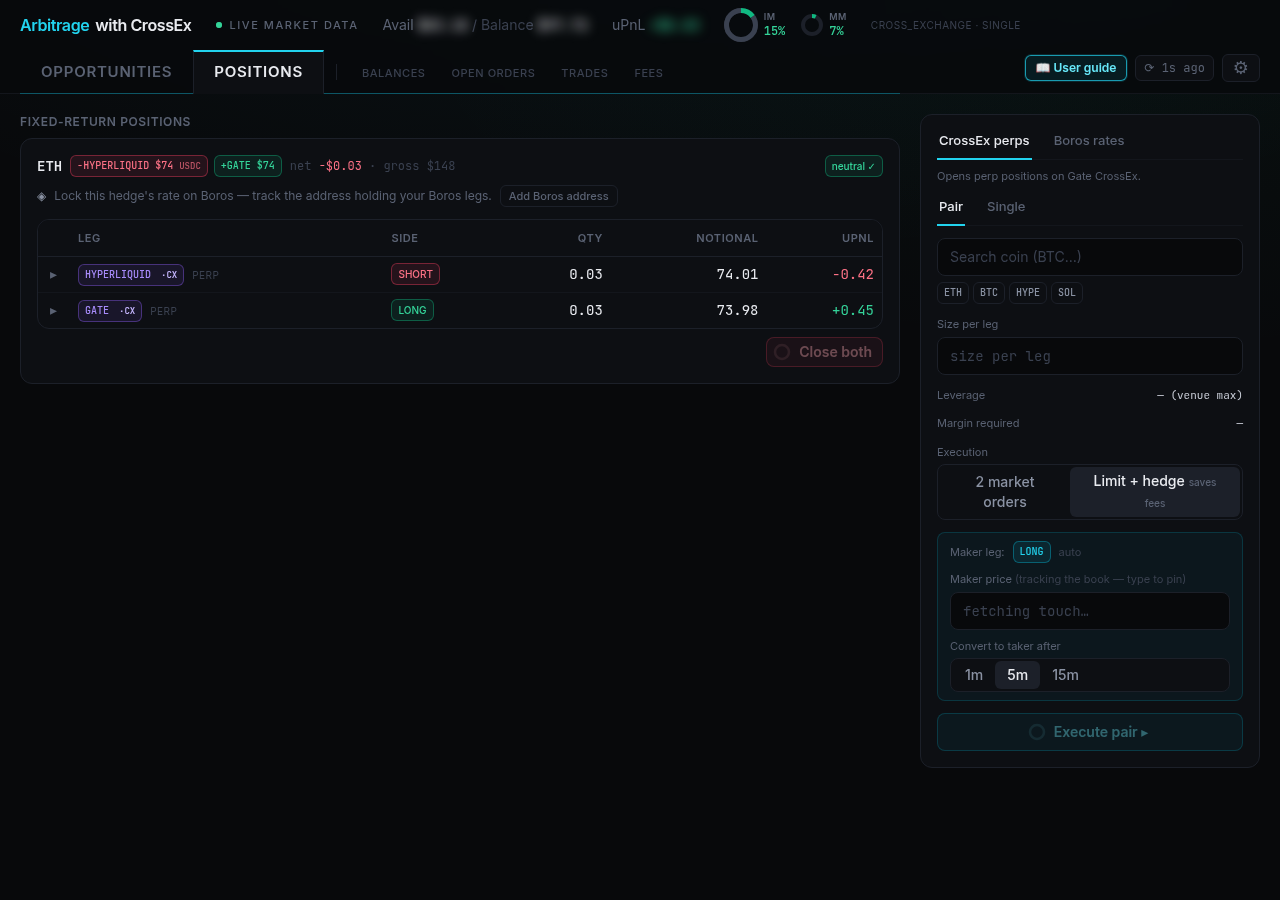
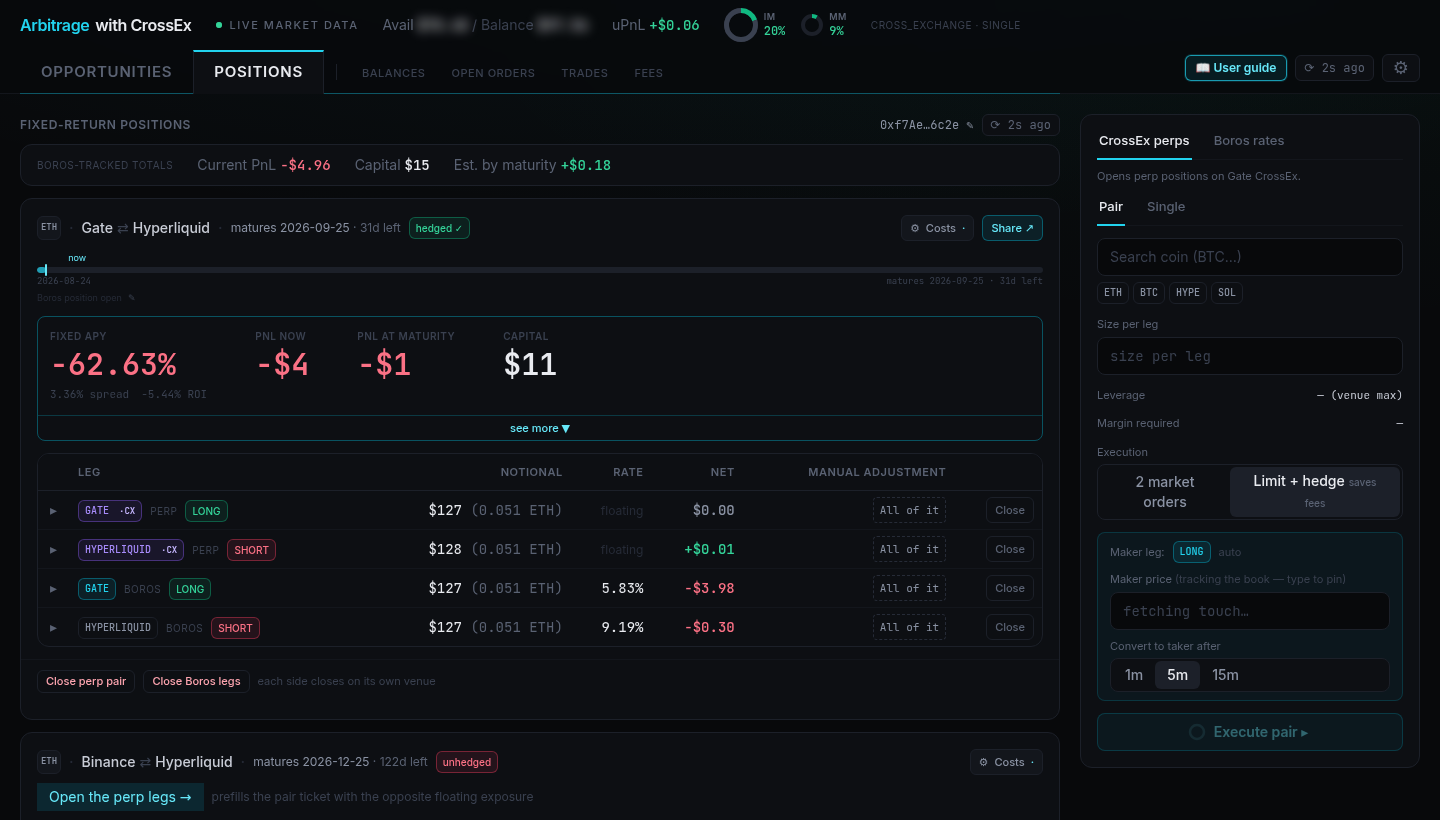
updated positions tracking (#287)
* renamed product

* renamed app

* finalized rename

* updated positions tracking

diff --git a/docs/boros-docs/arbitrage-with-crossex/monitoring-and-closing.md b/docs/boros-docs/arbitrage-with-crossex/monitoring-and-closing.md
@@ -4,23 +4,33 @@ import Hint from '@site/src/components/Hint';
 
 ## The Positions tab
 
-Once open, a 4-leg position needs little maintenance — the main decision is what to do with the perp legs at maturity. The **Positions** tab groups each hedge into its own box, showing the legs, their sizes and notionals, unrealised PnL, and whether the hedge is currently balanced.
+Once open, a 4-leg position needs little maintenance — the main decision is what to do at maturity. The **Positions** tab groups each strategy into its own box, with all four legs in one table.
 
 ![Positions tab](/boros-docs/imgs/arbitrage-with-crossex/positions-tab.png "Positions tab")
 
-A `neutral ✓` chip means the two legs offset. If you haven't set a tracked Boros address yet, the box prompts you to add one — without it the terminal sees only the perp half of the trade.
+At the top, **BOROS-TRACKED TOTALS** summarises every tracked position: **Current PnL**, **Capital**, and **Est. by maturity**.
 
-For how the returns are calculated and how to read the cost breakdown, see [Understanding Position PnL](./position-pnl).
+Each position box is headed by the coin, the venue pair (e.g. `Gate ⇄ Hyperliquid`), the maturity with days remaining, and a status chip — `hedged ✓` when all four legs are in place, or `unhedged` when they aren't. Below that sit the headline numbers:
 
-## Closing the 4-leg position
+- **FIXED APY** — the locked annualised return, with the underlying spread and ROI beneath it
+- **PNL NOW** — mark-to-market profit or loss today
+- **PNL AT MATURITY** — the projected result if held to maturity
+- **CAPITAL** — what the position consumes
 
-Close the Boros rate legs first, then the perps — the reverse of opening.
+The leg table lists all four legs — both `·CX` perp legs and both `BOROS` rate legs — with notional, rate (`floating` for perps, the locked rate for Boros legs), and net PnL.
 
-**Boros legs.** In the **Boros rates** ticket, switch the mode to **Close** (reduce-only), select the legs, and confirm. You can also close them from the Boros app directly.
+<Hint style="info">
+A position only shows a rate, capital, and ROI once every leg is in place. A partially built position reads **Incomplete position**, and an `unhedged` box offers **Open the perp legs →**, which prefills the pair ticket with the opposite floating exposure.
+</Hint>
 
-**Perp legs.** Once the rate legs are closed, a **Close both** button on the position box closes both perp legs at market. Click and hold it to confirm.
+## Closing a position
 
-![Close both perp legs](/boros-docs/imgs/arbitrage-with-crossex/close-both-perp-legs.png "Close both perp legs")
+Each side closes on its own venue, using the two buttons at the bottom of the position box:
+
+- **Close perp pair** — closes both CrossEx perp legs together.
+- **Close Boros legs** — closes both Boros rate legs.
+
+For finer control, the **MANUAL ADJUSTMENT** column on each leg row has **All of it** and **Close**, letting you close a single leg or part of one rather than the whole side.
 
 <Hint style="info">
 Because of the leverage on the perp legs, you may receive Initial Margin Ratio (IMR) alert emails from Gate. As the positions are delta-neutral, liquidation risk stays very low barring price dislocation across venues.
@@ -30,7 +40,7 @@ Because of the leverage on the perp legs, you may receive Initial Margin Ratio (
 
 If you can lock a decent spread on the same perp pair at the next maturity, rolling over is usually better than closing. The existing position escapes its perp closing fees and the new one escapes its perp opening fees — keep rolling and a position pays no perp fees at all, which is one of the largest boosts available to this strategy.
 
-To roll over: close only the Boros legs at maturity, open new Boros legs at the next maturity, and leave the perp legs untouched. Then set the old position's **Perp exit cost** to *Omit (rolling over)*, and on the new position untick the inherited executions under **Perp entry cost** — those legs already paid. See [Understanding Position PnL](./position-pnl) for both toggles.
+To roll over: close only the Boros legs at maturity, open new Boros legs at the next maturity, and leave the perp legs untouched. Then set the old position's **Perp exit cost** to *Omit (rolling over)*, and on the new position untick the inherited executions under **Perp entry cost**. Both live in the **Costs** dialog — see [Understanding Position PnL](./position-pnl).
 
 ## Using the order ticket directly
 

diff --git a/i18n/cn/docusaurus-plugin-content-docs-boros-docs/current/arbitrage-with-crossex/monitoring-and-closing.md b/i18n/cn/docusaurus-plugin-content-docs-boros-docs/current/arbitrage-with-crossex/monitoring-and-closing.md
@@ -9,23 +9,33 @@ import Hint from '@site/src/components/Hint';
 
 ## Positions 标签页
 
-四腿仓位开出后几乎无需维护——主要的决策是到期时如何处理永续腿。**Positions** 标签页将每组对冲归为一个独立方框，显示各条腿、规模与名义本金、未实现盈亏，以及该对冲当前是否平衡。
+四腿仓位开出后几乎无需维护——主要的决策是到期时如何处理。**Positions** 标签页将每个策略归为一个独立方框，并在同一张表格中列出全部四条腿。
 
 ![Positions tab](/boros-docs/imgs/arbitrage-with-crossex/positions-tab.png "Positions tab")
 
-`neutral ✓` 标识表示两条腿相互抵消。若你尚未设置追踪 Boros 地址，方框会提示你添加——没有该地址，终端只能看到交易中永续腿的那一半。
+顶部的 **BOROS-TRACKED TOTALS** 汇总所有被追踪的仓位：**Current PnL（当前盈亏）**、**Capital（资本）** 和 **Est. by maturity（到期预估）**。
 
-关于回报的计算方式以及成本拆解的解读，请参阅[理解仓位盈亏](./position-pnl)。
+每个仓位方框的标题显示币种、交易所组合（例如 `Gate ⇄ Hyperliquid`）、到期日及剩余天数，以及状态标识——四条腿齐备时显示 `hedged ✓`，否则显示 `unhedged`。其下是主要数字：
 
-## 平掉四腿仓位
+- **FIXED APY** — 锁定的年化回报，下方附有对应利差与 ROI
+- **PNL NOW** — 当前的浮动盈亏
+- **PNL AT MATURITY** — 持有至到期的预计结果
+- **CAPITAL** — 该仓位占用的资本
 
-先平掉 Boros 利率腿，再平永续腿——顺序与开仓相反。
+腿表格列出全部四条腿——两条 `·CX` 永续腿和两条 `BOROS` 利率腿——并显示名义本金、利率（永续腿为 `floating`，Boros 腿为锁定利率）以及净盈亏。
 
-**Boros 腿。** 在 **Boros rates** 面板中，将模式切换到 **Close**（只减仓），选择相应的腿并确认。你也可以直接在 Boros 应用中平仓。
+<Hint style="info">
+只有当全部四条腿齐备时，仓位才会显示利率、资本和 ROI。尚未建全的仓位会显示 **Incomplete position**；`unhedged` 方框则提供 **Open the perp legs →** 按钮，可用相反的浮动敞口预填对交易面板。
+</Hint>
 
-**永续腿。** 利率腿平掉后，仓位方框上的 **Close both** 按钮可将两条永续腿以市价单平掉。点击并按住该按钮以确认。
+## 平掉仓位
 
-![Close both perp legs](/boros-docs/imgs/arbitrage-with-crossex/close-both-perp-legs.png "Close both perp legs")
+每一侧都在各自的交易所平仓，使用仓位方框底部的两个按钮：
+
+- **Close perp pair** — 同时平掉两条 CrossEx 永续腿。
+- **Close Boros legs** — 平掉两条 Boros 利率腿。
+
+若需更精细的控制，每一行腿的 **MANUAL ADJUSTMENT** 列提供 **All of it** 和 **Close**，可只平掉单条腿或其中一部分，而非整侧。
 
 <Hint style="info">
 由于永续腿使用了杠杆，你可能会收到 Gate 关于初始保证金率（IMR）的提醒邮件。由于仓位是市场中性的，除非出现跨交易所的价格错位，否则清算风险极低。
@@ -35,7 +45,7 @@ import Hint from '@site/src/components/Hint';
 
 如果你能在同一永续交易对的下一到期日锁定不错的利差，展期通常优于平仓。原有仓位省去了永续腿的平仓手续费，新仓位也省去了开仓手续费——若能持续展期，仓位将完全不必支付永续腿手续费，这是该策略可获得的最大提升之一。
 
-展期做法：到期时只平掉 Boros 腿，在下一到期日开出新的 Boros 腿，永续腿保持不动。然后将原仓位的 **Perp exit cost** 设为 *Omit (rolling over)*，并在新仓位中取消勾选 **Perp entry cost** 下继承而来的执行记录——那些腿已经支付过手续费。两个开关的说明详见[理解仓位盈亏](./position-pnl)。
+展期做法：到期时只平掉 Boros 腿，在下一到期日开出新的 Boros 腿，永续腿保持不动。然后将原仓位的 **Perp exit cost** 设为 *Omit (rolling over)*，并在新仓位中取消勾选 **Perp entry cost** 下继承而来的执行记录。两者都位于 **Costs** 弹窗中——详见[理解仓位盈亏](./position-pnl)。
 
 ## 直接使用订单面板
 

diff --git a/docs/boros-docs/arbitrage-with-crossex/position-pnl.md b/docs/boros-docs/arbitrage-with-crossex/position-pnl.md
@@ -4,9 +4,21 @@ import Hint from '@site/src/components/Hint';
 
 Every position box reports a return on capital. Two things decide that number: which costs are charged to the position, and what counts as the capital it consumed. Both are adjustable, and both matter — the same trade can read very differently depending on how they're set.
 
+## The PnL breakdown
+
+Click **see more** on a position to expand two waterfall charts.
+
+![Position PnL charts](/boros-docs/imgs/arbitrage-with-crossex/position-pnl-charts.png "Position PnL charts")
+
+**PNL BY MATURITY** projects the result of holding to maturity, starting from the spread locked and subtracting perp entry fees, entry slip, Boros trade fees, and settlement fees (both paid so far and still to come).
+
+**CURRENT PNL (NOW)** shows where the position stands today: the same cost lines, plus the floating components that move day to day — perp funding (`Perp FR`), Boros funding (`Boros FR`), and Boros mark-to-market (`Boros MTM`).
+
 ## Cost assumptions
 
-Each open position has two toggles, and both move the headline numbers and the waterfall charts.
+The **Costs** button on a position opens its *Cost assumptions* dialog, which has two toggles. Both move the headline numbers and the waterfall charts.
+
+![Cost assumptions dialog](/boros-docs/imgs/arbitrage-with-crossex/position-costs-modal.png "Cost assumptions dialog")
 
 **Perp exit cost** — what happens to the perp legs at maturity.
 
@@ -20,7 +32,7 @@ Each open position has two toggles, and both move the headline numbers and the w
 
 ### Itemising entry cost
 
-Under **Include**, the **▾** button breaks the cost into parts so you can charge only some of it — useful when a book was built across several executions, such as a top-up or legs inherited from a previous maturity. Everything is ticked by default, the button shows how many parts remain charged (e.g. `Include (3 of 4)`), and your ticks are remembered per position.
+Under **Include**, the count button beside it (e.g. `3 of 3`) expands a **CHARGED TO THIS POSITION** list, breaking the cost into parts so you can charge only some of it — useful when a book was built across several executions, such as a top-up or legs inherited from a previous maturity. Everything is ticked by default, the button shows how many parts remain charged, and your ticks are remembered per position.
 
 Two kinds of row appear, and they are not equally precise:
 

diff --git a/i18n/cn/docusaurus-plugin-content-docs-boros-docs/current/arbitrage-with-crossex/position-pnl.md b/i18n/cn/docusaurus-plugin-content-docs-boros-docs/current/arbitrage-with-crossex/position-pnl.md
@@ -9,9 +9,21 @@ import Hint from '@site/src/components/Hint';
 
 每个仓位方框都会给出一个资本回报率。决定这个数字的有两点：哪些成本计入该仓位，以及什么算作它所占用的资本。两者都可调整，也都很重要——同一笔交易在不同设置下读数可能相差很大。
 
+## 盈亏拆解
+
+点击仓位上的 **see more**，即可展开两张瀑布图。
+
+![Position PnL charts](/boros-docs/imgs/arbitrage-with-crossex/position-pnl-charts.png "Position PnL charts")
+
+**PNL BY MATURITY（到期盈亏）** 预测持有至到期的结果：从锁定的利差出发，依次扣除永续腿入场手续费、入场滑点、Boros 交易手续费，以及结算费（含已支付和尚未产生的部分）。
+
+**CURRENT PNL (NOW)（当前盈亏）** 展示仓位当前的状况：包含同样的成本项，另加每日浮动的部分——永续资金费（`Perp FR`）、Boros 资金费（`Boros FR`）以及 Boros 盯市盈亏（`Boros MTM`）。
+
 ## 成本假设
 
-每个持仓都有两个开关，二者都会影响主要数字和瀑布图。
+点击仓位上的 **Costs** 按钮可打开该仓位的 *Cost assumptions（成本假设）* 弹窗，其中有两个开关，二者都会影响主要数字和瀑布图。
+
+![Cost assumptions dialog](/boros-docs/imgs/arbitrage-with-crossex/position-costs-modal.png "Cost assumptions dialog")
 
 **Perp exit cost（永续腿平仓成本）** —— 永续腿在到期时的处理方式。
 
@@ -25,7 +37,7 @@ import Hint from '@site/src/components/Hint';
 
 ### 拆分入场成本
 
-在 **Include** 模式下，**▾** 按钮可将成本拆分为多个部分，让你只计入其中一部分——当持仓是分多次建立时（例如加仓，或从上一到期日继承而来的腿）尤为有用。默认全部勾选，按钮会显示仍计入的部分数量（例如 `Include (3 of 4)`），你的勾选状态会按仓位分别记住。
+在 **Include** 模式下，其旁边的计数按钮（例如 `3 of 3`）可展开 **CHARGED TO THIS POSITION** 列表，将成本拆分为多个部分，让你只计入其中一部分——当持仓是分多次建立时（例如加仓，或从上一到期日继承而来的腿）尤为有用。默认全部勾选，按钮会显示仍计入的部分数量，你的勾选状态会按仓位分别记住。
 
 其中有两类条目，精确度并不相同：
 
